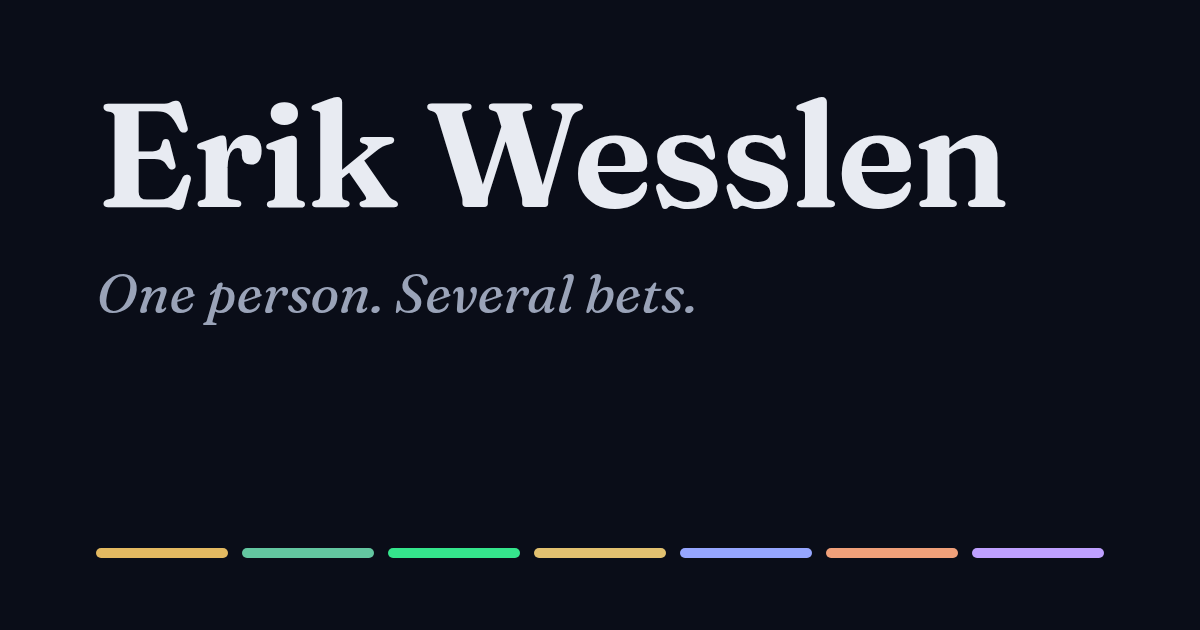
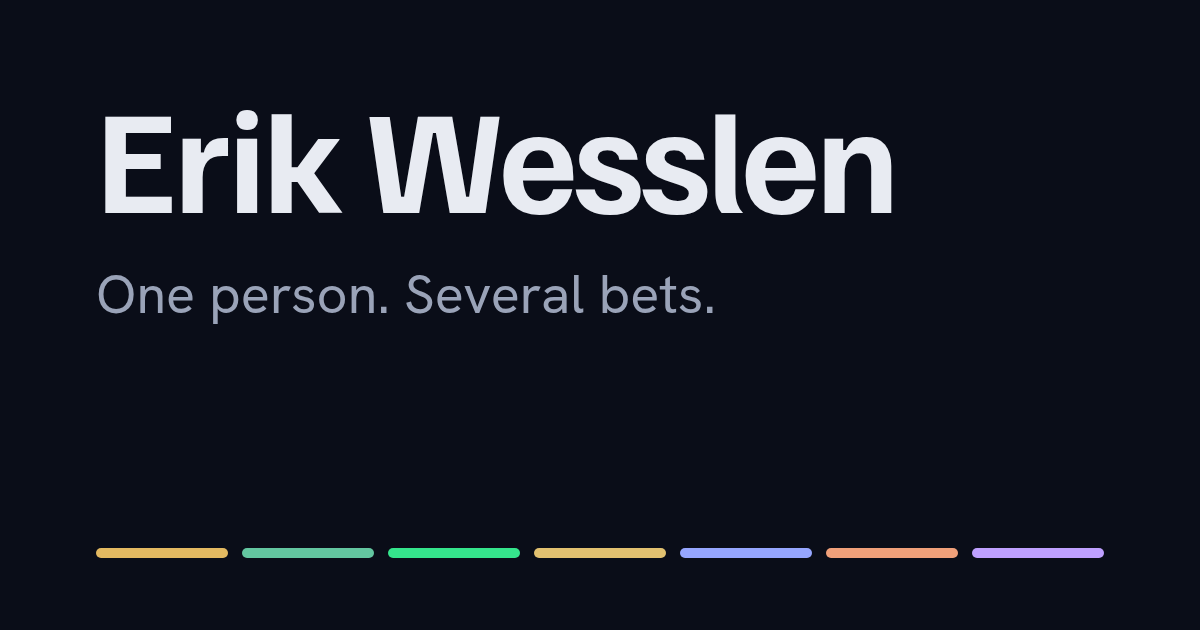
Switch typography to Familjen Grotesk + Hanken Grotesk
Replace Fraunces/Inter with two variable grotesks: Familjen Grotesk for
the display face (h1 at 700, section heads and card titles at 400) and
Hanken Grotesk for subtitles and body copy at 400. The old face-specific
weights (620/640/560/540/380) are normalized to the new scale.

Two knock-ons the swap forces:

- Familjen Grotesk's wght axis is 400–700, and the h1 now rests at 700,
  so the hero's pointer wave has no headroom above it. It thins letters
  on approach instead of thickening them — same kinetic read within the
  axis the face actually has.
- The hero tagline loses its italic. It was a Fraunces-serif idiom; on a
  grotesk the upright reads better, and it keeps the italic file off the
  wire. Easy to restore — Hanken ships an italic axis.

Fallback metrics are re-measured from the new font tables rather than
carried over: Familjen 102.5%/22.5%/0.4795em avg advance, Hanken
100%/30.3%/0.5037em, both matched against Arial. Measured CLS with font
loads held back 400ms is 0.003 (worst case 0.0027 under reduced motion),
so the no-shift property survives the swap.

contrast, check, build, a11y, and keyboard all pass; OG card regenerated.

Claude-Session: https://claude.ai/code/session_01KdQqsnnnQpYqZEM326ZBVQ

Changed region(s): [[0.0617, 0.1508, 0.8325, 0.3619], [0.0617, 0.4222, 0.5858, 0.5127]]

diff --git a/src/styles/global.css b/src/styles/global.css
@@ -6,25 +6,27 @@
 
 /* ---------- Metric-matched font fallbacks ----------
    Local fonts adjusted to the webfonts' real metrics (measured from the
-   font tables: Inter ascent 96.87%/descent 24.12%/avg advance 0.5352em;
-   Fraunces 97.8%/25.5%/0.595em) so the swap causes no layout shift.
-   Liberation Sans and Gelasio are the metric-compatible Linux stand-ins. */
+   font tables: Familjen Grotesk ascent 102.5%/descent 22.5%/avg lowercase
+   advance 0.4795em; Hanken Grotesk 100%/30.3%/0.5037em) so the swap causes
+   no layout shift. Both are grotesks, so Arial — with Liberation Sans as
+   the metric-compatible Linux stand-in — backs each one; the size-adjust
+   values below are relative to that. */
 
 @font-face {
-  font-family: 'Inter Fallback';
+  font-family: 'Familjen Fallback';
   src: local('Arial'), local('Liberation Sans');
-  size-adjust: 107%;
-  ascent-override: 90.5%;
-  descent-override: 22.5%;
+  size-adjust: 97.9%;
+  ascent-override: 104.6%;
+  descent-override: 23%;
   line-gap-override: 0%;
 }
 
 @font-face {
-  font-family: 'Fraunces Fallback';
-  src: local('Georgia'), local('Gelasio');
-  size-adjust: 108.6%;
-  ascent-override: 90.1%;
-  descent-override: 23.5%;
+  font-family: 'Hanken Fallback';
+  src: local('Arial'), local('Liberation Sans');
+  size-adjust: 102.9%;
+  ascent-override: 97.2%;
+  descent-override: 29.5%;
   line-gap-override: 0%;
 }
 
@@ -98,8 +100,9 @@ select {
   --space-xl: 4rem;
   --space-2xl: clamp(4.5rem, 3.5rem + 5vw, 8rem);
 
-  --font-display: 'Fraunces Variable', 'Fraunces Fallback', 'Iowan Old Style', Georgia, serif;
-  --font-body: 'Inter Variable', 'Inter Fallback', system-ui, -apple-system, sans-serif;
+  /* Display = Familjen Grotesk (wght axis 400–700), body = Hanken Grotesk (100–900) */
+  --font-display: 'Familjen Grotesk Variable', 'Familjen Fallback', Arial, sans-serif;
+  --font-body: 'Hanken Grotesk Variable', 'Hanken Fallback', system-ui, -apple-system, sans-serif;
 
   --radius: 10px;
   --wrap: 68rem;
@@ -160,7 +163,7 @@ select {
    @font-face only fetches files for families actually used */
 @media (prefers-reduced-data: reduce) {
   :root {
-    --font-display: 'Iowan Old Style', Georgia, serif;
+    --font-display: 'Helvetica Neue', Arial, system-ui, sans-serif;
     --font-body: system-ui, -apple-system, sans-serif;
   }
 }
@@ -217,12 +220,15 @@ body {
   -webkit-font-smoothing: antialiased;
 }
 
+/* Section heads and card titles sit at the display face's regular weight;
+   only the h1 goes to 700 (see .hero h1 / .wordmark). */
 h1,
 h2,
 h3 {
   font-family: var(--font-display);
-  font-weight: 560;
-  line-height: 1.12;
+  font-weight: 400;
+  line-height: 1.14;
+  letter-spacing: -0.01em;
   text-wrap: balance;
 }
 
@@ -329,7 +335,7 @@ main[tabindex='-1']:focus-visible {
 
 .wordmark {
   font-family: var(--font-display);
-  font-weight: 640;
+  font-weight: 700;
   font-size: var(--step-1);
   text-decoration: none;
 }
@@ -354,7 +360,7 @@ main[tabindex='-1']:focus-visible {
   border-radius: 99px;
   color: var(--ink-muted);
   font-size: var(--step--1);
-  font-weight: 550;
+  font-weight: 500;
   cursor: pointer;
   visibility: hidden;
   transition:
@@ -417,15 +423,14 @@ main[tabindex='-1']:focus-visible {
 
 .hero h1 {
   font-size: var(--step-5);
-  font-weight: 620;
-  letter-spacing: -0.015em;
+  font-weight: 700;
+  letter-spacing: -0.025em;
 }
 
 .hero .tagline {
-  font-family: var(--font-display);
-  font-style: italic;
+  font-family: var(--font-body);
   font-size: var(--step-2);
-  font-weight: 420;
+  font-weight: 400;
   color: var(--ink-muted);
   margin-top: var(--space-s);
 }
@@ -435,11 +440,11 @@ main[tabindex='-1']:focus-visible {
   margin-top: var(--space-l);
   font-size: var(--step-1);
   line-height: 1.55;
-  font-weight: 380;
+  font-weight: 400;
 }
 
 .hero .intro strong {
-  font-weight: 640;
+  font-weight: 600;
 }
 
 /* Kinetic name: JS splits the h1 into masked letters (aria-label keeps the
@@ -454,14 +459,14 @@ main[tabindex='-1']:focus-visible {
   display: inline-block;
   overflow: hidden;
   text-align: center;
-  /* keep descenders and serif overshoot visible inside the mask */
+  /* keep descenders and overshoot visible inside the mask */
   padding-bottom: 0.14em;
   margin-bottom: -0.14em;
 }
 
 .hero-letter {
   display: inline-block;
-  font-variation-settings: 'wght' var(--wght, 620);
+  font-variation-settings: 'wght' var(--wght, 700);
 }
 
 /* ---------- Sections ---------- */
@@ -590,7 +595,7 @@ main[tabindex='-1']:focus-visible {
 
 .card .kicker {
   font-size: var(--step--1);
-  font-weight: 620;
+  font-weight: 600;
   letter-spacing: 0.08em;
   text-transform: uppercase;
   color: var(--accent);
@@ -636,7 +641,7 @@ main[tabindex='-1']:focus-visible {
 .card-links a {
   display: inline-block;
   padding-block: 0.3em;
-  font-weight: 560;
+  font-weight: 500;
   color: var(--accent);
   text-decoration-color: color-mix(in srgb, var(--accent) 45%, transparent);
 }
@@ -673,7 +678,7 @@ main[tabindex='-1']:focus-visible {
 
 .media-item .kicker {
   font-size: var(--step--1);
-  font-weight: 620;
+  font-weight: 600;
   letter-spacing: 0.08em;
   text-transform: uppercase;
   color: var(--accent);
@@ -727,7 +732,7 @@ main[tabindex='-1']:focus-visible {
 .post-title {
   font-family: var(--font-display);
   font-size: var(--step-1);
-  font-weight: 540;
+  font-weight: 500;
 }
 
 .post-meta {
@@ -825,7 +830,7 @@ main[tabindex='-1']:focus-visible {
   color: var(--ink);
   font-family: var(--font-display);
   font-size: var(--step-1);
-  font-weight: 540;
+  font-weight: 500;
   margin-bottom: var(--space-s);
 }
 

diff --git a/src/scripts/motion.ts b/src/scripts/motion.ts
@@ -7,7 +7,7 @@
  *
  *  - wires the visible motion toggle (persists explicit choice)
  *  - hero: letter-split wipe-in with a variable-font weight wave, then a
- *    pointer-proximity weight bulge (fine pointers only)
+ *    pointer-proximity weight wave (fine pointers only)
  *  - scroll reveals via ScrollTrigger, opacity/transform only — content
  *    never leaves the accessibility tree (no visibility:hidden)
  *  - focusin failsafe: tabbing into an unrevealed element completes its
@@ -92,9 +92,13 @@ function setupViewTransitionOptIn(): void {
 
 /* ---------- Hero: kinetic variable-font name ---------- */
 
-const WGHT_START = 300;
-const WGHT_REST = 620;
-const WGHT_BULGE = 800;
+/* Familjen Grotesk's wght axis stops at 700, which is where the h1 rests —
+   so there is no headroom above it. The pointer wave therefore thins the
+   letters it passes over instead of thickening them; same kinetic read,
+   within the axis the display face actually has. */
+const WGHT_START = 400;
+const WGHT_REST = 700;
+const WGHT_NEAR = 430;
 
 function splitHeroLetters(h1: HTMLElement): HTMLElement[] {
   if (h1.dataset.split) {
@@ -167,7 +171,7 @@ async function heroEntrance(): Promise<void> {
   });
 }
 
-/** Pointer-proximity weight bulge. Listeners only on the hero — no global
+/** Pointer-proximity weight wave. Listeners only on the hero — no global
     rAF loop; completely idle unless the pointer moves over it. */
 function heroPointerWave(signal: AbortSignal): void {
   if (!finePointer.matches) return;
@@ -190,7 +194,7 @@ function heroPointerWave(signal: AbortSignal): void {
         const dx = e.clientX - (rect.left + rect.width / 2);
         const dy = e.clientY - (rect.top + rect.height / 2);
         const t = Math.max(0, 1 - Math.hypot(dx, dy) / 140);
-        quicks[i]!(WGHT_REST + (WGHT_BULGE - WGHT_REST) * t * t);
+        quicks[i]!(WGHT_REST + (WGHT_NEAR - WGHT_REST) * t * t);
       });
     },
     { signal }

diff --git a/scripts/og.html b/scripts/og.html
@@ -4,17 +4,12 @@
 <meta charset="utf-8">
 <style>
   @font-face {
-    font-family: 'Fraunces Variable';
-    src: url('../node_modules/@fontsource-variable/fraunces/files/fraunces-latin-wght-normal.woff2') format('woff2');
+    font-family: 'Familjen Grotesk Variable';
+    src: url('../node_modules/@fontsource-variable/familjen-grotesk/files/familjen-grotesk-latin-wght-normal.woff2') format('woff2');
   }
   @font-face {
-    font-family: 'Fraunces Variable';
-    font-style: italic;
-    src: url('../node_modules/@fontsource-variable/fraunces/files/fraunces-latin-wght-italic.woff2') format('woff2');
-  }
-  @font-face {
-    font-family: 'Inter Variable';
-    src: url('../node_modules/@fontsource-variable/inter/files/inter-latin-wght-normal.woff2') format('woff2');
+    font-family: 'Hanken Grotesk Variable';
+    src: url('../node_modules/@fontsource-variable/hanken-grotesk/files/hanken-grotesk-latin-wght-normal.woff2') format('woff2');
   }
   * { margin: 0; box-sizing: border-box; }
   body {
@@ -26,19 +21,18 @@
     flex-direction: column;
     justify-content: space-between;
     padding: 84px 96px 72px;
-    font-family: 'Inter Variable', sans-serif;
+    font-family: 'Hanken Grotesk Variable', sans-serif;
   }
   h1 {
-    font-family: 'Fraunces Variable', serif;
-    font-variation-settings: 'wght' 620;
+    font-family: 'Familjen Grotesk Variable', sans-serif;
+    font-variation-settings: 'wght' 700;
     font-size: 148px;
     line-height: 0.95;
-    letter-spacing: -0.015em;
+    letter-spacing: -0.025em;
   }
   .tagline {
-    font-family: 'Fraunces Variable', serif;
-    font-style: italic;
-    font-variation-settings: 'wght' 420;
+    font-family: 'Hanken Grotesk Variable', sans-serif;
+    font-variation-settings: 'wght' 400;
     font-size: 54px;
     color: #9aa3b8;
     margin-top: 34px;

diff --git a/README.md b/README.md
@@ -90,6 +90,27 @@ scripts/
   a11y.mjs             ← axe scan of the built site
 ```
 
+## Typography
+
+Two variable grotesks, both self-hosted via Fontsource, wired through
+`--font-display` and `--font-body` in `src/styles/global.css`:
+
+| Role | Face | Weight |
+| --- | --- | --- |
+| `h1` (hero, wordmark) | Familjen Grotesk | 700 |
+| Section heads, card titles | Familjen Grotesk | 400 |
+| Subtitles (hero tagline, section notes) | Hanken Grotesk | 400 |
+| Body copy | Hanken Grotesk | 400 |
+
+**Familjen Grotesk's `wght` axis stops at 700**, which is also the h1's
+resting weight — so the hero's pointer wave thins letters rather than
+thickening them (`WGHT_NEAR` in `src/scripts/motion.ts`). Hanken Grotesk
+runs the full 100–900, so body weights have room either way.
+
+Both fallbacks are Arial (Liberation Sans on Linux), with `size-adjust`
+and ascent/descent overrides measured from each webfont's own tables —
+re-measure them if either face is swapped.
+
 ## Motion architecture
 
 Motion state is a single attribute, `data-motion="on|off"` on `<html>`,
@@ -125,7 +146,8 @@ both motion states:
   focus is never on an invisible element (asserted in the keyboard test).
 - The hero letter animation locks letter widths during its weight wave and
   metric-matched font fallbacks (`size-adjust`/`ascent-override`) cover the
-  webfont swap — measured CLS ≈ 0.
+  webfont swap — measured CLS ≈ 0 (0.003 with font loads held back 400 ms,
+  the worst case for the swap).
 - The motion bundle (~47 KB gz) is a deferred module; first paint never
   waits on it.
 
